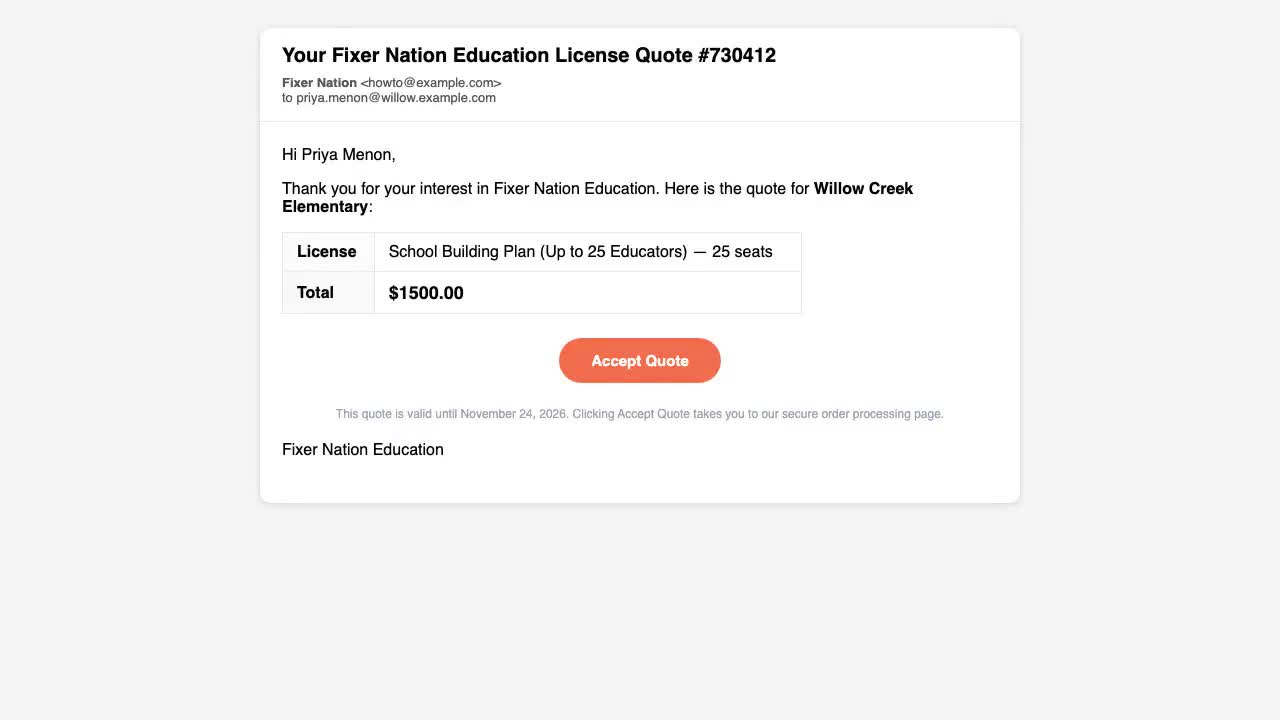
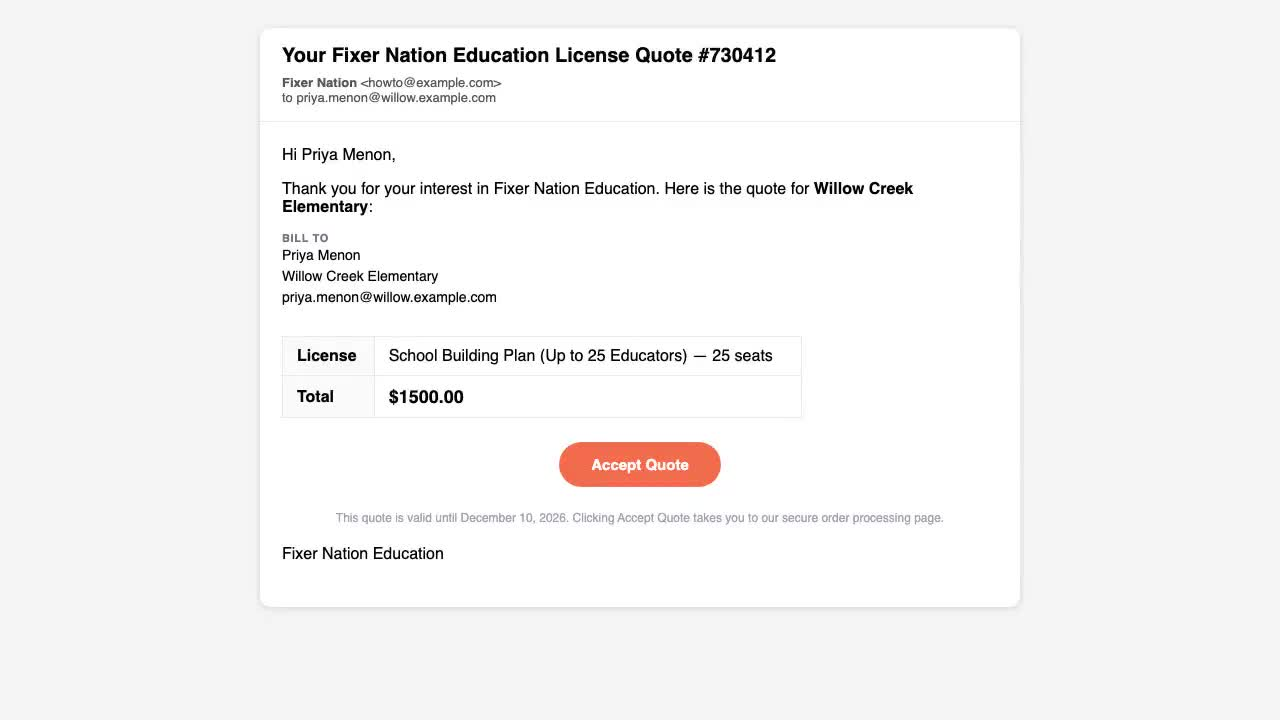
Re-record and publish the D1 "Accept your quote" help video
The accept page now asks for the buyer's name and title (Sales CRM phase 4b), so the video types them before the PO number.
- New D1 upload on Cloudinary; help-videos.js, help-assets/D1.vtt and D1.jpg updated.
- help-videos.js?v=24 -> v=25 on all 54 pages that load it.
- VIDEO-STATUS.md records the re-record and that the other listed videos are unchanged (version number only).

diff --git a/help-videos.js b/help-videos.js
@@ -31,7 +31,7 @@
     // ---- Getting started
     { id: 'D1', group: 'getting-started', topic: 'Before you sign in', title: 'Accept your quote',
       summary: 'Choose how to pay (PO or card) and say who will run the school\'s account.',
-      pages: ['accept-quote.html'], url: 'https://res.cloudinary.com/x9ll3a3t/video/upload/v1793391653/fne/help/D1.mp4', captions: '/help-assets/D1.vtt', poster: '/help-assets/D1.jpg' },
+      pages: ['accept-quote.html'], url: 'https://res.cloudinary.com/x9ll3a3t/video/upload/v1794717368/fne/help/D1.mp4', captions: '/help-assets/D1.vtt', poster: '/help-assets/D1.jpg' },
     { id: 'A1', group: 'getting-started', topic: 'Signing in', title: 'Your welcome email and first sign-in',
       summary: 'Open your welcome email and choose a password. You\'ll land in your portal.',
       pages: ['reset-password.html'], url: 'https://res.cloudinary.com/x9ll3a3t/video/upload/v1793391613/fne/help/A1.mp4', captions: '/help-assets/A1.vtt', poster: '/help-assets/A1.jpg' },

diff --git a/admin-support-help.html b/admin-support-help.html
@@ -83,7 +83,7 @@
 
 <script src="admin-common.js?v=17"></script>
 <script src="help-center.js?v=16"></script>
-<script src="help-videos.js?v=24"></script>
+<script src="help-videos.js?v=25"></script>
 <script>
 function cell(text) { const td = document.createElement('td'); td.textContent = text; return td; }
 function row(cells) { const tr = document.createElement('tr'); cells.forEach(function (c) { tr.appendChild(c); }); return tr; }

diff --git a/school-admin-invitations.html b/school-admin-invitations.html
@@ -418,6 +418,6 @@ document.addEventListener('DOMContentLoaded', function () {
 
 function esc(str) { return String(str == null ? '' : str).replace(/&/g,'&amp;').replace(/</g,'&lt;').replace(/>/g,'&gt;').replace(/"/g,'&quot;').replace(/'/g,'&#39;'); }
 </script>
-<script src="help-videos.js?v=24" defer></script>
+<script src="help-videos.js?v=25" defer></script>
 </body>
 </html>

diff --git a/district-admin-dashboard.html b/district-admin-dashboard.html
@@ -135,6 +135,6 @@ function card(label, value, sub, cls) {
   return '<div class="sa-stat-card ' + cls + '"><div class="label">' + esc(label) + '</div><div class="value">' + esc(value) + '</div><div class="sub">' + esc(sub) + '</div></div>';
 }
 </script>
-<script src="help-videos.js?v=24" defer></script>
+<script src="help-videos.js?v=25" defer></script>
 </body>
 </html>

diff --git a/parent-invite-accept.html b/parent-invite-accept.html
@@ -336,7 +336,7 @@ function showError(msg) {
 function show(id) { document.getElementById(id).style.display = ''; }
 function hide(id) { document.getElementById(id).style.display = 'none'; }
 </script>
-<script src="help-videos.js?v=24" defer></script>
+<script src="help-videos.js?v=25" defer></script>
 <script src="site-logo.js?v=1"></script>
 </body>
 </html>

diff --git a/school-invite-accept.html b/school-invite-accept.html
@@ -388,7 +388,7 @@ function showError(msg) {
 function show(id) { document.getElementById(id).style.display = ''; }
 function hide(id) { document.getElementById(id).style.display = 'none'; }
 </script>
-<script src="help-videos.js?v=24" defer></script>
+<script src="help-videos.js?v=25" defer></script>
 <script src="site-logo.js?v=1"></script>
 </body>
 </html>

diff --git a/district-admin-schools.html b/district-admin-schools.html
@@ -332,6 +332,6 @@ async function submitAssign() {
 
 function esc(str) { return String(str == null ? '' : str).replace(/&/g,'&amp;').replace(/</g,'&lt;').replace(/>/g,'&gt;').replace(/"/g,'&quot;').replace(/'/g,'&#39;'); }
 </script>
-<script src="help-videos.js?v=24" defer></script>
+<script src="help-videos.js?v=25" defer></script>
 </body>
 </html>

diff --git a/school-admin-dashboard.html b/school-admin-dashboard.html
@@ -162,6 +162,6 @@ function renderDashboard(d) {
 
 function esc(str) { return String(str == null ? '' : str).replace(/&/g,'&amp;').replace(/</g,'&lt;').replace(/>/g,'&gt;').replace(/"/g,'&quot;').replace(/'/g,'&#39;'); }
 </script>
-<script src="help-videos.js?v=24" defer></script>
+<script src="help-videos.js?v=25" defer></script>
 </body>
 </html>

diff --git a/school-admin-org.html b/school-admin-org.html
@@ -258,6 +258,6 @@ function info(label, value) {
 
 function esc(str) { return String(str == null ? '' : str).replace(/&/g,'&amp;').replace(/</g,'&lt;').replace(/>/g,'&gt;').replace(/"/g,'&quot;').replace(/'/g,'&#39;'); }
 </script>
-<script src="help-videos.js?v=24" defer></script>
+<script src="help-videos.js?v=25" defer></script>
 </body>
 </html>

diff --git a/school-admin-reports.html b/school-admin-reports.html
@@ -299,6 +299,6 @@ function exportCsv(type) {
 
 function esc(str) { return String(str == null ? '' : str).replace(/&/g,'&amp;').replace(/</g,'&lt;').replace(/>/g,'&gt;').replace(/"/g,'&quot;').replace(/'/g,'&#39;'); }
 </script>
-<script src="help-videos.js?v=24" defer></script>
+<script src="help-videos.js?v=25" defer></script>
 </body>
 </html>

diff --git a/district-admin-program-report.html b/district-admin-program-report.html
@@ -42,7 +42,7 @@
 </div>
 <script src="graduate-evidence-view.js?v=2"></script>
 <script src="program-report-view.js?v=2"></script>
-<script src="help-videos.js?v=24" defer></script>
+<script src="help-videos.js?v=25" defer></script>
 <script>
 document.addEventListener('daReady', load);
 document.addEventListener('daDistrictChanged', load);

diff --git a/school-admin-program-report.html b/school-admin-program-report.html
@@ -43,7 +43,7 @@
 </div>
 <script src="graduate-evidence-view.js?v=2"></script>
 <script src="program-report-view.js?v=2"></script>
-<script src="help-videos.js?v=24" defer></script>
+<script src="help-videos.js?v=25" defer></script>
 <script>
 document.addEventListener('saReady', load);
 document.addEventListener('saSchoolChanged', load);
